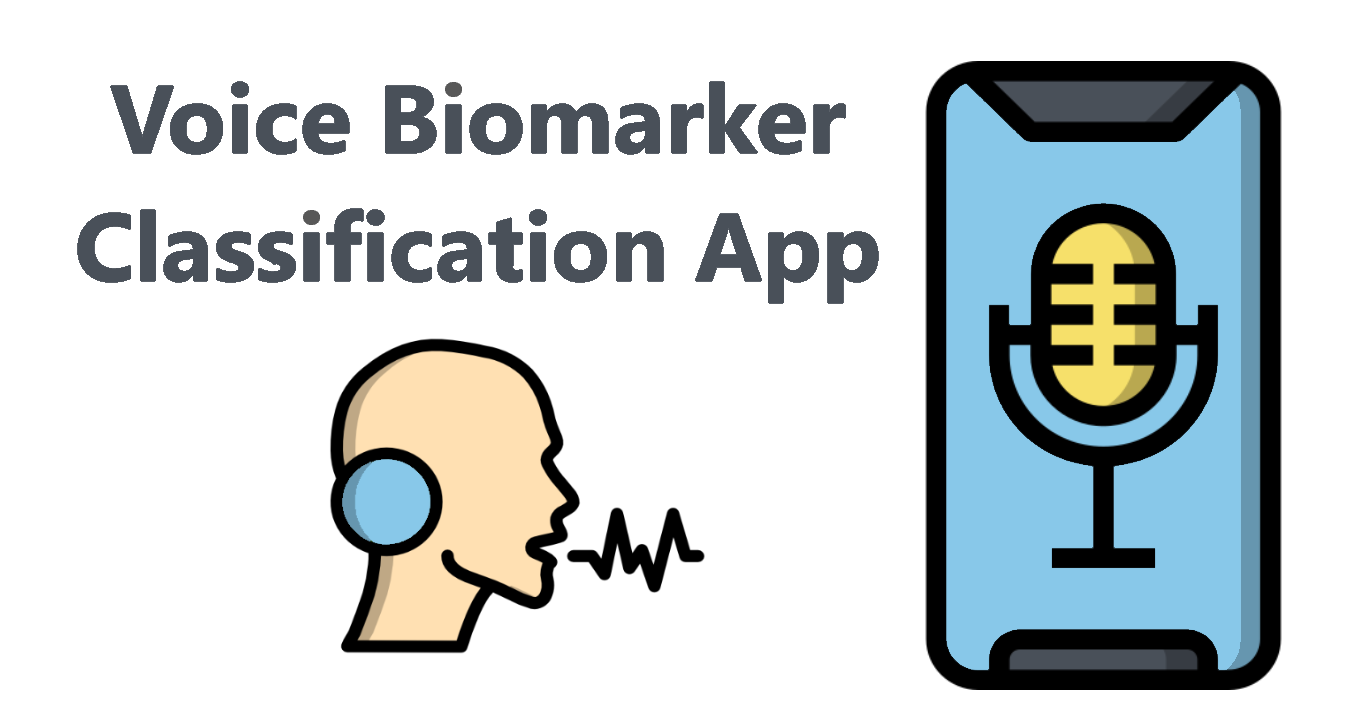
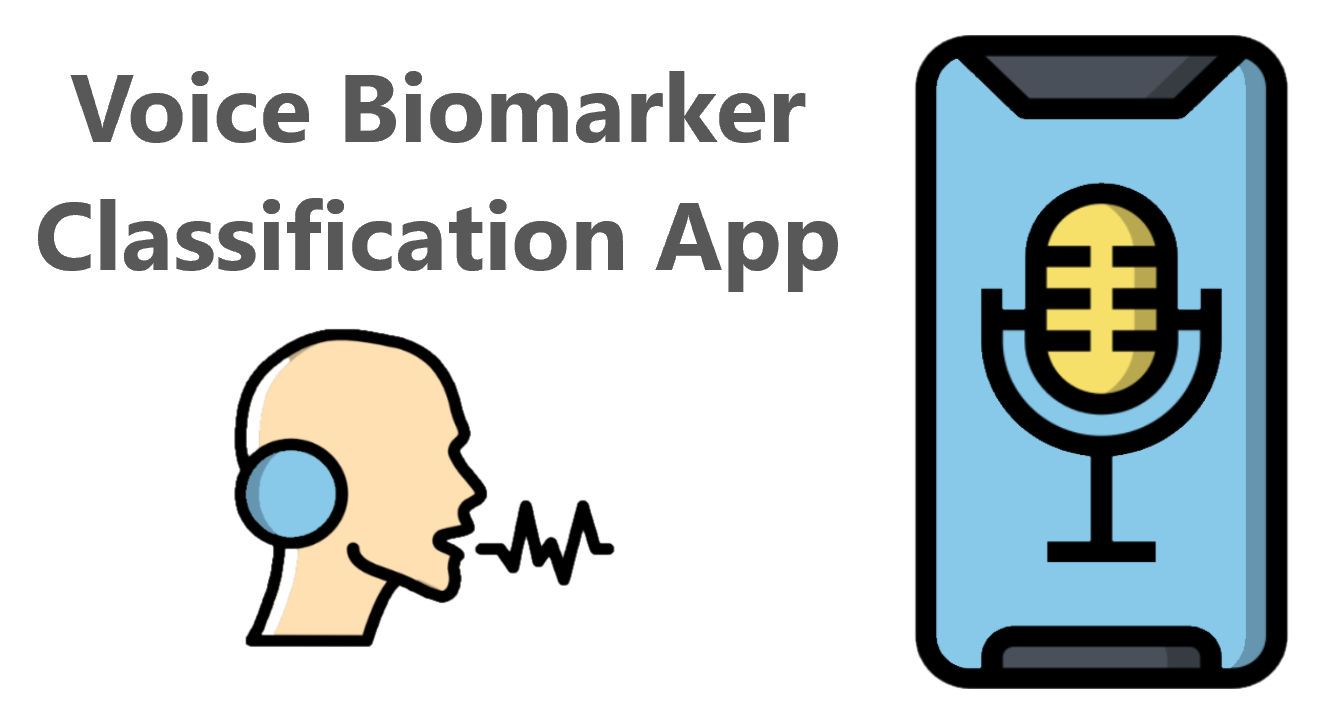
update projects photos

diff --git a/project/voice-classifier-app/index.html b/project/voice-classifier-app/index.html
@@ -864,9 +864,9 @@
 </div>
 
 
-<div class="article-header article-container featured-image-wrapper mt-4 mb-4" style="max-width: 720px; max-height: 383px;">
+<div class="article-header article-container featured-image-wrapper mt-4 mb-4" style="max-width: 720px; max-height: 391px;">
   <div style="position: relative">
-    <img src="/project/voice-classifier-app/featured_hu54646c953ab9df4359dd02f0db075ff3_77873_720x2500_fit_q75_h2_lanczos_3.webp" width="720" height="383" alt="" class="featured-image">
+    <img src="/project/voice-classifier-app/featured_hu64c1ee5a90ad1c19faadd465fe82704c_109570_720x2500_fit_q75_h2_lanczos_3.webp" width="720" height="391" alt="" class="featured-image">
     <span class="article-header-caption">Voice Classification Demo App</span>
   </div>
 </div>

diff --git a/index.html b/index.html
@@ -1797,7 +1797,7 @@ After her master, Maria did an Erasmus+ internship at Bitbrain Technologies, whe
     
     
     <a href="/project/voice-classifier-app/" >
-      <img src="/project/voice-classifier-app/featured_hu54646c953ab9df4359dd02f0db075ff3_77873_150x0_resize_q75_h2_lanczos_3.webp" height="80" width="150"
+      <img src="/project/voice-classifier-app/featured_hu64c1ee5a90ad1c19faadd465fe82704c_109570_150x0_resize_q75_h2_lanczos_3.webp" height="81" width="150"
            alt="Biomarkers Voice Clasifier App" loading="lazy">
     </a>
     

diff --git a/portfolio/index.html b/portfolio/index.html
@@ -963,7 +963,7 @@
       
       
       <a href="/project/voice-classifier-app/" >
-        <img src="/project/voice-classifier-app/featured_hu54646c953ab9df4359dd02f0db075ff3_77873_540x0_resize_q75_h2_lanczos_3.webp" height="287" width="540"
+        <img src="/project/voice-classifier-app/featured_hu64c1ee5a90ad1c19faadd465fe82704c_109570_540x0_resize_q75_h2_lanczos_3.webp" height="293" width="540"
              alt="Biomarkers Voice Clasifier App" loading="lazy">
       </a>
       

diff --git a/publications/index.html b/publications/index.html
@@ -1720,7 +1720,7 @@
     
     
     <a href="/project/voice-classifier-app/" >
-      <img src="/project/voice-classifier-app/featured_hu54646c953ab9df4359dd02f0db075ff3_77873_150x0_resize_q75_h2_lanczos_3.webp" height="80" width="150"
+      <img src="/project/voice-classifier-app/featured_hu64c1ee5a90ad1c19faadd465fe82704c_109570_150x0_resize_q75_h2_lanczos_3.webp" height="81" width="150"
            alt="Biomarkers Voice Clasifier App" loading="lazy">
     </a>
     

diff --git a/project/index.html b/project/index.html
@@ -825,7 +825,7 @@
     
     
     <a href="/project/voice-classifier-app/" >
-      <img src="/project/voice-classifier-app/featured_hu54646c953ab9df4359dd02f0db075ff3_77873_150x0_resize_q75_h2_lanczos_3.webp" height="80" width="150"
+      <img src="/project/voice-classifier-app/featured_hu64c1ee5a90ad1c19faadd465fe82704c_109570_150x0_resize_q75_h2_lanczos_3.webp" height="81" width="150"
            alt="Biomarkers Voice Clasifier App" loading="lazy">
     </a>
     

diff --git a/tag/android-app/index.html b/tag/android-app/index.html
@@ -825,7 +825,7 @@
     
     
     <a href="/project/voice-classifier-app/" >
-      <img src="/project/voice-classifier-app/featured_hu54646c953ab9df4359dd02f0db075ff3_77873_150x0_resize_q75_h2_lanczos_3.webp" height="80" width="150"
+      <img src="/project/voice-classifier-app/featured_hu64c1ee5a90ad1c19faadd465fe82704c_109570_150x0_resize_q75_h2_lanczos_3.webp" height="81" width="150"
            alt="Biomarkers Voice Clasifier App" loading="lazy">
     </a>
     

diff --git a/tag/artificial-intelligence/index.html b/tag/artificial-intelligence/index.html
@@ -825,7 +825,7 @@
     
     
     <a href="/project/voice-classifier-app/" >
-      <img src="/project/voice-classifier-app/featured_hu54646c953ab9df4359dd02f0db075ff3_77873_150x0_resize_q75_h2_lanczos_3.webp" height="80" width="150"
+      <img src="/project/voice-classifier-app/featured_hu64c1ee5a90ad1c19faadd465fe82704c_109570_150x0_resize_q75_h2_lanczos_3.webp" height="81" width="150"
            alt="Biomarkers Voice Clasifier App" loading="lazy">
     </a>
     

diff --git a/tag/deep-learning/index.html b/tag/deep-learning/index.html
@@ -825,7 +825,7 @@
     
     
     <a href="/project/voice-classifier-app/" >
-      <img src="/project/voice-classifier-app/featured_hu54646c953ab9df4359dd02f0db075ff3_77873_150x0_resize_q75_h2_lanczos_3.webp" height="80" width="150"
+      <img src="/project/voice-classifier-app/featured_hu64c1ee5a90ad1c19faadd465fe82704c_109570_150x0_resize_q75_h2_lanczos_3.webp" height="81" width="150"
            alt="Biomarkers Voice Clasifier App" loading="lazy">
     </a>
     

diff --git a/tag/open-source/index.html b/tag/open-source/index.html
@@ -825,7 +825,7 @@
     
     
     <a href="/project/voice-classifier-app/" >
-      <img src="/project/voice-classifier-app/featured_hu54646c953ab9df4359dd02f0db075ff3_77873_150x0_resize_q75_h2_lanczos_3.webp" height="80" width="150"
+      <img src="/project/voice-classifier-app/featured_hu64c1ee5a90ad1c19faadd465fe82704c_109570_150x0_resize_q75_h2_lanczos_3.webp" height="81" width="150"
            alt="Biomarkers Voice Clasifier App" loading="lazy">
     </a>
     

diff --git a/tag/python/index.html b/tag/python/index.html
@@ -825,7 +825,7 @@
     
     
     <a href="/project/voice-classifier-app/" >
-      <img src="/project/voice-classifier-app/featured_hu54646c953ab9df4359dd02f0db075ff3_77873_150x0_resize_q75_h2_lanczos_3.webp" height="80" width="150"
+      <img src="/project/voice-classifier-app/featured_hu64c1ee5a90ad1c19faadd465fe82704c_109570_150x0_resize_q75_h2_lanczos_3.webp" height="81" width="150"
            alt="Biomarkers Voice Clasifier App" loading="lazy">
     </a>
     

diff --git a/tag/rnn/index.html b/tag/rnn/index.html
@@ -825,7 +825,7 @@
     
     
     <a href="/project/voice-classifier-app/" >
-      <img src="/project/voice-classifier-app/featured_hu54646c953ab9df4359dd02f0db075ff3_77873_150x0_resize_q75_h2_lanczos_3.webp" height="80" width="150"
+      <img src="/project/voice-classifier-app/featured_hu64c1ee5a90ad1c19faadd465fe82704c_109570_150x0_resize_q75_h2_lanczos_3.webp" height="81" width="150"
            alt="Biomarkers Voice Clasifier App" loading="lazy">
     </a>
     
